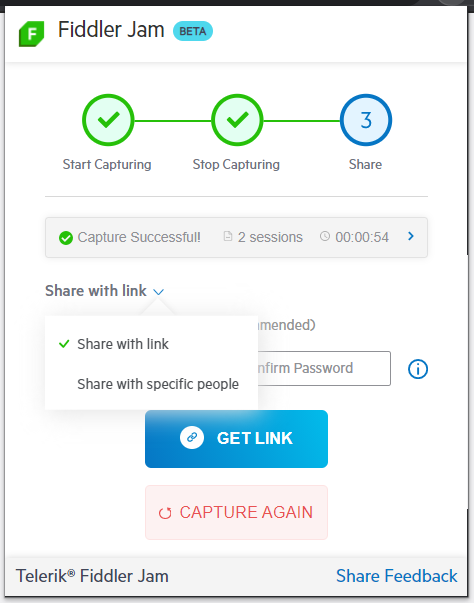
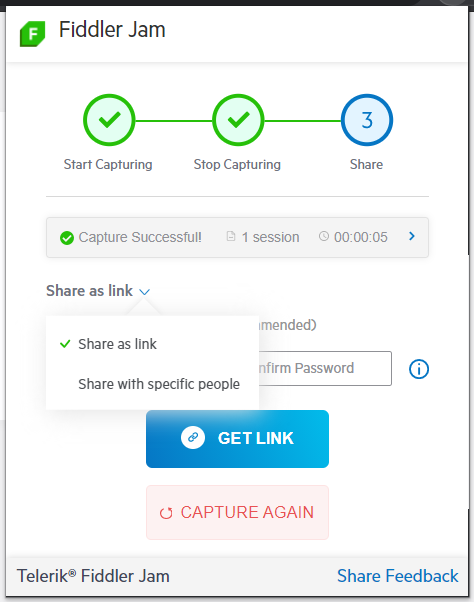
trial period section added

diff --git a/portal/fiddler-jam-portal.md b/portal/fiddler-jam-portal.md
@@ -43,4 +43,22 @@ Fiddler Jam portal provides various subscription plans to accommodate the differ
 
 ## Trial Plan
 
-Activate the trial plan to test the Fiddler Jam portal for 14 days. The trial period applies the quotas for the Business plan.
+Activate the trial plan to test the Fiddler Jam portal for 14 days and utilize the following advantages:
+
+- Share unlimited links to extension logs
+- Add unlimited portal viewers
+- View unlimited extension logs
+- Get priority support
+
+### Activate The Fiddler Jam Trial
+
+To activate the Fiddler Jam portal 14-days trial, execute the steps as follows:
+
+- Open [jam.getfiddler.com](https://jam.getfiddler.com/) page.
+- Sign In with an existing Fiddler account or use Google authentication. Alternatively, you could create a new Fiddler account via the **_Create Account_** option at the bottom.
+- Accept the Fiddler Jam license agreement.
+- Activate your trial by clicking on the **Start 14-Day Trial** button.
+
+![Start 14-Day Trial](../images/portal/trial/fj-trial-flow-try-14-days-002.png)
+
+That's all! No credit card is needed! Your Fiddler Jam workspace is automatically created, and you could immediately start using the Fiddler Jam portal to open, share and make a deep-dive investigation for the submitted Fiddler Jam extension logs.

diff --git a/extension/link-options.md b/extension/link-options.md
@@ -11,17 +11,16 @@ position: 50
 
 The Fiddler Jam extension provides two options for sharing [recorded logs]({%slug fj-recording-logs%}). Both alternatives allow additional security via [password protection](#password-protection-for-recorded-logs).
 
-- [Share with a link](#share-with-a-link)
+- [Share as link](#share-as-link)
 - [Share with specific people](#share-with-specific-people)
 
 ![Link generation options](../images/ext/ext-images/extension-link-options.png)
 
-## Share with a Link
+## Share as Link
 
-Link sharing allows [registered Fiddler Jam portal users]({%slug fj-users%}#portal-users) to open a recorded log, if they have the link. The log can be additionally [protected with a password](#password-protection-for-recorded-logs).
+Link sharing allows [registered Fiddler Jam portal users]({%slug fj-users%}#portal-users) to open a recorded log, if they have the link. The log can be additionally [protected with a password](#password-protection-for-recorded-logs). 
 
 Only registered [Fiddler Jam portal users]({%slug fj-users%}#portal-users) with the appropriate rights will have access to the recorded information.
-
 
 
 ## Share with Specific People
